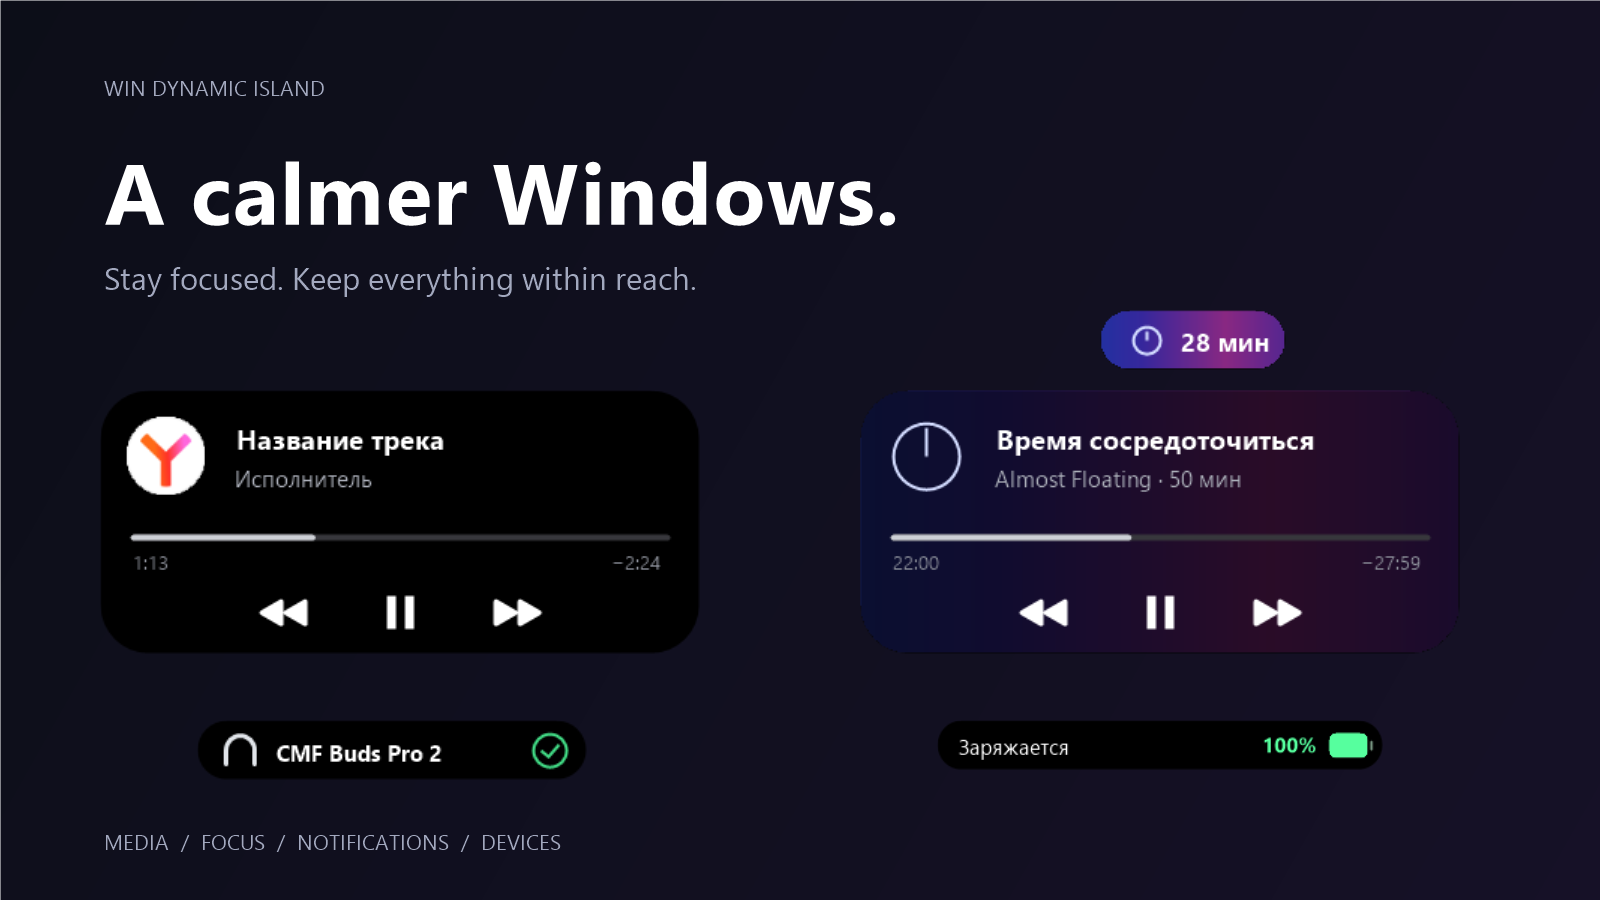
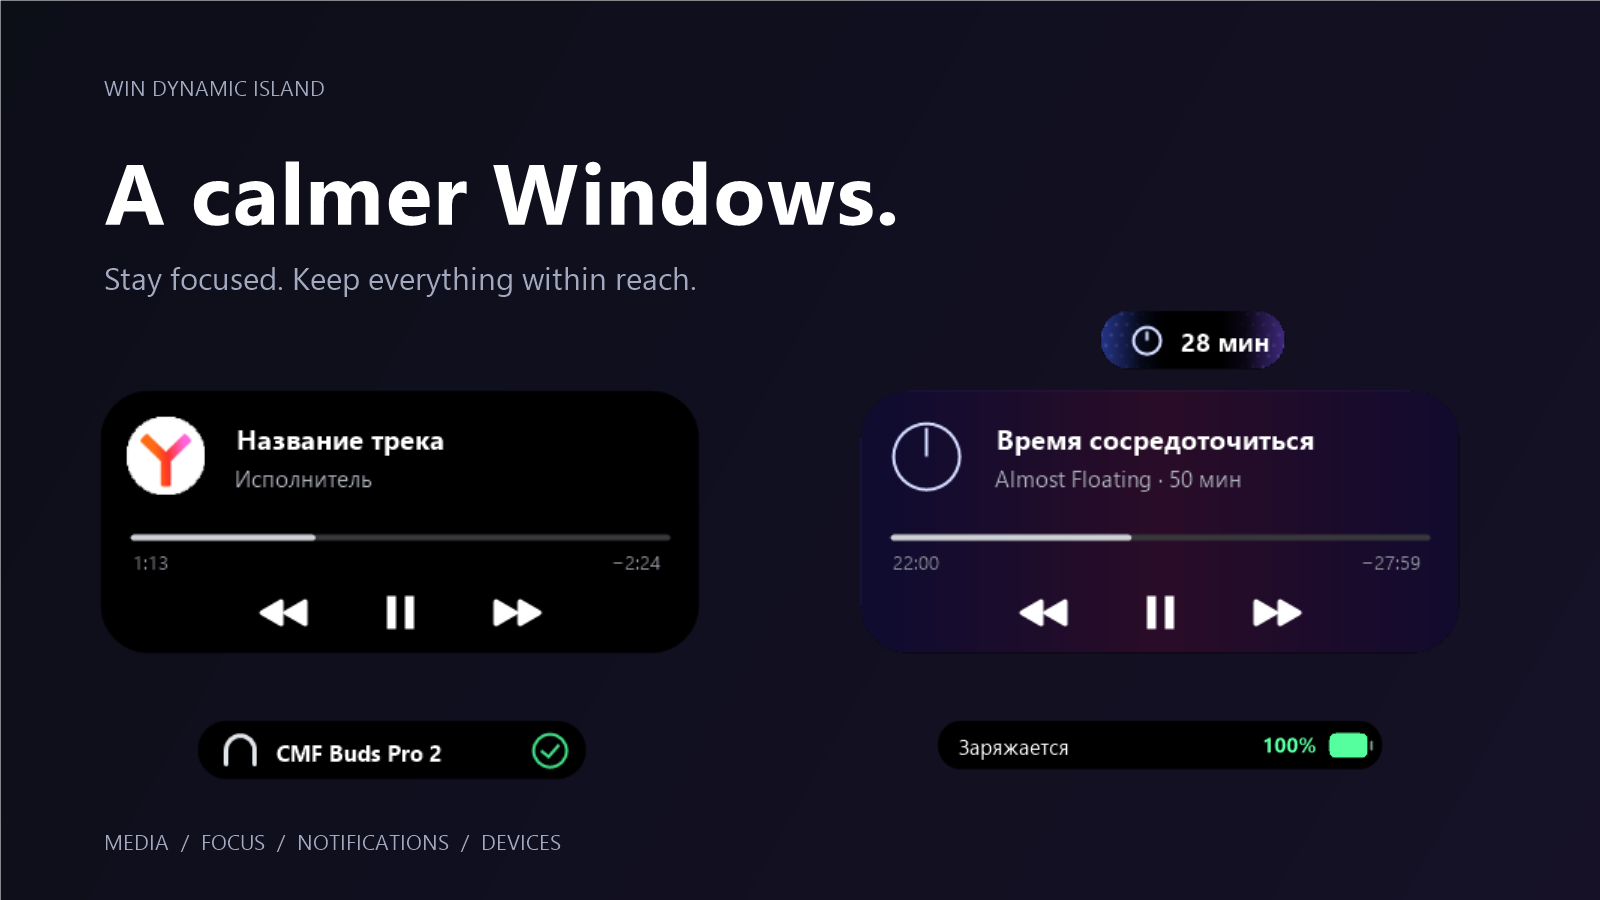
Add black center and drifting halftone edges to compact focus island

Changed region(s): [[0.6875, 0.3422, 0.8125, 0.4356]]

diff --git a/src/WinDynamicIsland.App/Presentation/Island/IslandFocus.cs b/src/WinDynamicIsland.App/Presentation/Island/IslandFocus.cs
@@ -7,13 +7,15 @@ namespace WinDynamicIsland
     internal sealed partial class Island
     {
         bool IsFocus { get { return mediaData != null && mediaData.Id != null && mediaData.Id.StartsWith("WinDynamicIsland.Focus.", StringComparison.Ordinal); } }
+        double? focusPreviewSeconds;
         void DrawFocusGlow(Graphics g, int width, int height, double amount)
         {
+            double seconds = focusPreviewSeconds ?? DateTime.UtcNow.TimeOfDay.TotalSeconds;
             using (var shape = RoundRect(new Rectangle(0, 0, width - 1, height - 1), 64))
             {
                 var state = g.Save(); g.SetClip(shape);
                 // A slow 24-second drift keeps blue and pink-violet visible together.
-                float offset = (float)(Math.Sin(DateTime.UtcNow.TimeOfDay.TotalSeconds * Math.PI / 12) * width * .35);
+                float offset = (float)(Math.Sin(seconds * Math.PI / 12) * width * .35);
                 using (var brush = new LinearGradientBrush(new RectangleF(-width * .4f + offset, 0, width * 1.8f, height), Color.Blue, Color.Blue, 0f))
                 {
                     brush.WrapMode = WrapMode.TileFlipX;
@@ -26,8 +28,72 @@ namespace WinDynamicIsland
                 }
                 using (var shade = new SolidBrush(Color.FromArgb((int)(90 + 115 * amount), Color.Black)))
                     g.FillRectangle(shade, 0, 0, width, height);
+                // Blend the compact treatment away during the existing expansion animation.
+                double compact = 1 - Ease(amount / .7);
+                if (compact > 0)
+                {
+                    using (var black = new SolidBrush(Color.FromArgb((int)(255 * compact), Color.Black)))
+                        g.FillRectangle(black, 0, 0, width, height);
+                    DrawFocusEdges(g, width, height, compact, seconds);
+                }
                 g.Restore(state);
             }
+        }
+        static Color FocusEdgeColor(Color first, Color second, double mix, double light, int alpha)
+        {
+            return Color.FromArgb(alpha,
+                (int)((first.R + (second.R - first.R) * mix) * light),
+                (int)((first.G + (second.G - first.G) * mix) * light),
+                (int)((first.B + (second.B - first.B) * mix) * light));
+        }
+        static void DrawFocusEdges(Graphics g, int width, int height, double opacity, double seconds)
+        {
+            double drift = .5 + .5 * Math.Sin(seconds * Math.PI / 12);
+            int alpha = (int)(255 * opacity);
+            Color blue = Color.FromArgb(30, 64, 157), violet = Color.FromArgb(84, 42, 139);
+            using (var glow = new LinearGradientBrush(new RectangleF(0, 0, width, height), Color.Black, Color.Black, 0f))
+            {
+                glow.InterpolationColors = new ColorBlend
+                {
+                    Positions = new[] { 0f, .10f, .22f, .34f, .66f, .78f, .90f, 1f },
+                    Colors = new[]
+                    {
+                        FocusEdgeColor(blue, violet, drift * .45, .90, alpha),
+                        FocusEdgeColor(blue, violet, drift * .45, .58, alpha),
+                        FocusEdgeColor(blue, violet, drift * .45, .16, alpha),
+                        Color.FromArgb(alpha, Color.Black), Color.FromArgb(alpha, Color.Black),
+                        FocusEdgeColor(violet, blue, drift * .45, .16, alpha),
+                        FocusEdgeColor(violet, blue, drift * .45, .58, alpha),
+                        FocusEdgeColor(violet, blue, drift * .45, .90, alpha)
+                    }
+                };
+                g.FillRectangle(glow, 0, 0, width, height);
+            }
+            // Halftone dots drift as a single soft field and fade toward the middle.
+            // The clip explicitly excludes the black central band, even during motion.
+            var state = g.Save();
+            using (var edges = new Region(new RectangleF(0, 0, width * .34f, height)))
+            {
+                edges.Union(new RectangleF(width * .66f, 0, width * .34f, height));
+                g.SetClip(edges, CombineMode.Intersect);
+                const float pitch = 7;
+                float dx = (float)(Math.Sin(seconds * Math.PI / 16) * 2.8);
+                float dy = (float)(Math.Cos(seconds * Math.PI / 20) * 2.2);
+                for (int row = -1; row <= height / pitch + 1; row++)
+                    for (int column = -1; column <= width / pitch + 1; column++)
+                    {
+                        float x = column * pitch + ((row & 1) == 0 ? 0 : pitch / 2) + dx;
+                        float y = row * pitch + dy;
+                        double edge = 1 - Ease(Math.Max(0, Math.Min(x, width - x)) / (width * .34));
+                        double softness = .72 + .28 * Math.Sin(row * .83 + column * .61 + seconds * .12);
+                        int dotAlpha = (int)(64 * edge * softness * opacity);
+                        if (dotAlpha < 2) continue;
+                        float size = (float)(1.5 + 1.3 * edge);
+                        using (var dot = new SolidBrush(Color.FromArgb(dotAlpha, 157, 145, 212)))
+                            g.FillEllipse(dot, x - size / 2, y - size / 2, size, size);
+                    }
+            }
+            g.Restore(state);
         }
         internal static void ExportFocusPreview(string folder)
         {
@@ -35,10 +101,17 @@ namespace WinDynamicIsland
             using (var island = new Island())
             {
                 island.timer.Stop();
+                island.focusPreviewSeconds = 0;
                 island.mediaData = new MediaSnapshot { Id = "WinDynamicIsland.Focus.work0", Title = L.T("FocusWork"), Artist = "Almost Floating · 50 " + (L.Language == "en" ? "min" : "мин"), AppName = "Pomodoro", Playing = true, CanToggle = true, CanSeek = true, Position = 1320, End = 3000 };
                 island.mediaPresentation.Accept(island.mediaData, DateTime.UtcNow);
                 using (var face = island.DrawMediaFace(MediaWidth, MediaHeight, 1)) face.Save(System.IO.Path.Combine(folder, "focus-expanded.png"));
                 using (var face = island.DrawMediaFace(MediaSmallWidth, MediaSmallHeight, 0)) face.Save(System.IO.Path.Combine(folder, "focus-compact.png"));
+                for (int i = 0; i < 4; i++)
+                {
+                    island.focusPreviewSeconds = i * 8;
+                    using (var face = island.DrawMediaFace(MediaSmallWidth, MediaSmallHeight, 0))
+                        face.Save(System.IO.Path.Combine(folder, "focus-compact-" + i + ".png"));
+                }
             }
         }
     }

diff --git a/src/WinDynamicIsland.App/Host/Program.cs b/src/WinDynamicIsland.App/Host/Program.cs
@@ -8,7 +8,7 @@ using System.Windows.Forms;
 using WinDynamicIsland.Core;
 
 [assembly: System.Reflection.AssemblyTitle("Win Dynamic Island")]
-[assembly: System.Reflection.AssemblyVersion("2.2.1.0")]
+[assembly: System.Reflection.AssemblyVersion("2.2.2.0")]
 [assembly: System.Runtime.CompilerServices.InternalsVisibleTo("WinDynamicIsland.Tests")]
 namespace WinDynamicIsland
 {
@@ -64,7 +64,7 @@ namespace WinDynamicIsland
             if (args.Length == 3 && args[0] == "--capture-watch") { try { Process.GetProcessById(int.Parse(args[1])).WaitForExit(); } catch { } try { Recovery.Restore(args[2]); } catch { } return; }
             if (args.Length > 0 && args[0] == "--check")
             {
-                Log("health.txt", "Version=2.2.1; Startup=" + StartupRegistration.IsEnabled + "; SotaProfile=" + File.Exists(ApiProfile.PathName));
+                Log("health.txt", "Version=2.2.2; Startup=" + StartupRegistration.IsEnabled + "; SotaProfile=" + File.Exists(ApiProfile.PathName));
                 return;
             }
             if (args.Length > 0 && args[0] == "--check-api")

diff --git a/src/WinDynamicIsland.App/Host/AppHost.cs b/src/WinDynamicIsland.App/Host/AppHost.cs
@@ -60,7 +60,7 @@ namespace WinDynamicIsland
             if (File.Exists(guard))
                 using (var owner = Process.GetCurrentProcess())
                     Process.Start(new ProcessStartInfo(guard, owner.Id + " " + owner.StartTime.ToUniversalTime().Ticks) { UseShellExecute = false, CreateNoWindow = true, WindowStyle = ProcessWindowStyle.Hidden });
-            Program.Log("host.txt", "Running; version=2.2.1; PID=" + Process.GetCurrentProcess().Id);
+            Program.Log("host.txt", "Running; version=2.2.2; PID=" + Process.GetCurrentProcess().Id);
             if (Program.Settings.ShowStartupIsland)
                 Program.Presenter.Status("Win Dynamic Island", L.T("Ready"), true, false);
             if (action == "--settings")

diff --git a/src/WinDynamicIsland.App/Presentation/Settings/SettingsForm.cs b/src/WinDynamicIsland.App/Presentation/Settings/SettingsForm.cs
@@ -114,7 +114,7 @@ namespace WinDynamicIsland
                 button.Tag = key;
                 navigation.Controls.Add(button);
             }
-            navigation.Controls.Add(new Label { Text = "2.2.1  ·  Windows", ForeColor = muted, Width = 180, Height = 32, Margin = new Padding(12, 32, 0, 0) });
+            navigation.Controls.Add(new Label { Text = "2.2.2  ·  Windows", ForeColor = muted, Width = 180, Height = 32, Margin = new Padding(12, 32, 0, 0) });
         }
         void Collect()
         {
